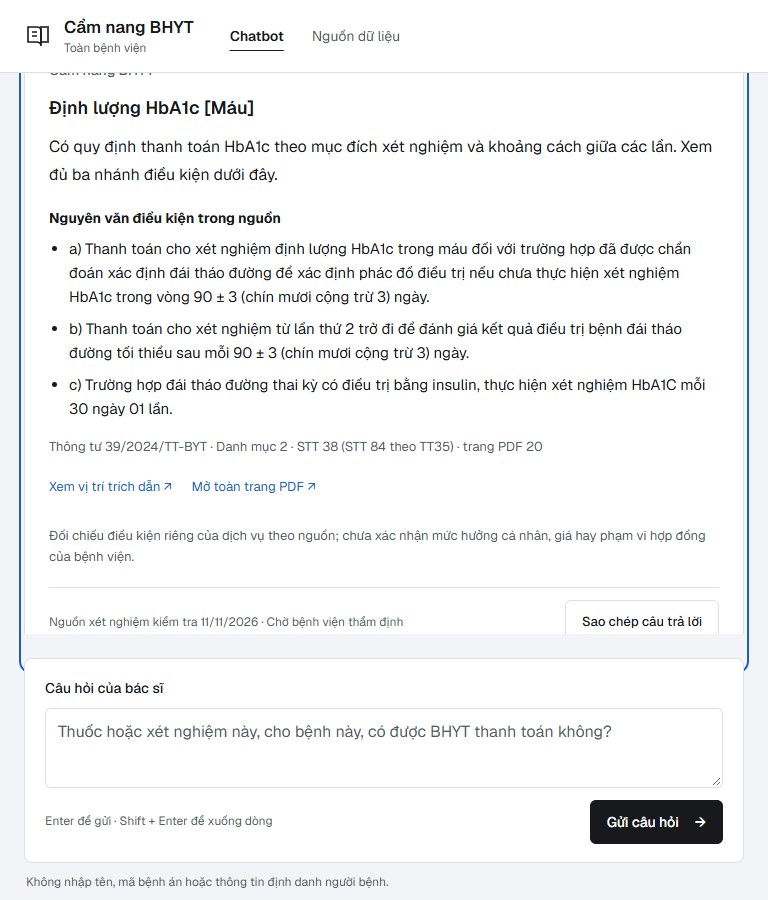
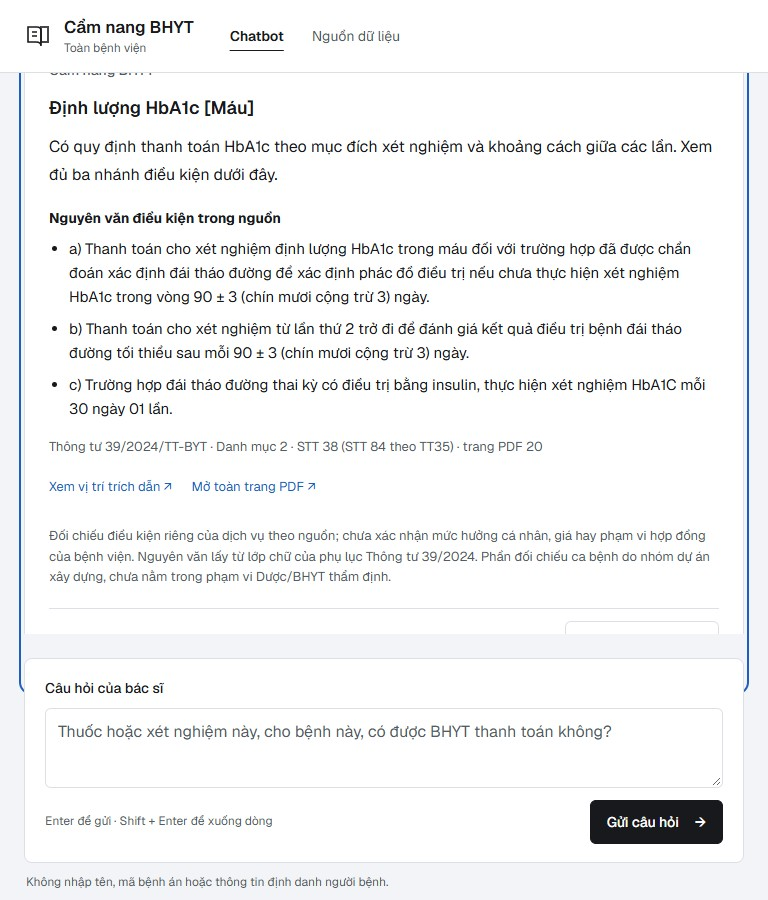
Đồng bộ trạng thái thẩm định trong câu trả lời, sửa lỗi ngắt kết nối khi từ chối yêu cầu

Changed region(s): [[0.0625, 0.5911, 0.9062, 0.6533], [0.0625, 0.6844, 0.5312, 0.7156], [0.75, 0.6844, 0.9062, 0.7156]]

diff --git a/web/app.js b/web/app.js
@@ -19,7 +19,7 @@ function quoteBlock(q,status){
  fig.append(row);if(q.highlights?.length)fig.append(node('p',status==='source_condition_not_met'?'Phần tô đậm là điều kiện nguồn yêu cầu; thông tin trong câu hỏi không khớp điều kiện này.':'Phần tô đậm là đoạn câu trả lời dựa vào.','hint'));
  if(q.page_checked)fig.append(node('p',q.page_note||'Số trang đã đối chiếu với ảnh trang PDF (Đỗ Quốc An đọc), chờ Dược xác nhận.','hint'));return fig;}
 function evidenceGroup(parent,title,items){if(!items.length)return;const d=node('details',undefined,'citation');d.append(node('summary',title+' · '+items.length+' đoạn'));for(const c of items)d.append(sourceBlock(c));parent.append(d);}
-function reportText(data,question){const out=['Câu hỏi: '+question,data.answer];for(const r of data.results||[]){const a=r.question_answer;if(!a)continue;out.push(r.ingredient,a.conclusion,...a.conditions);for(const q of a.quotes||[])out.push('TRÍCH NGUYÊN VĂN '+q.document+' · '+q.locator+(q.page_checked?' · trang PDF '+q.pages.join('–'):'')+': “'+(q.empty?'(ô ghi chú trống)':q.text)+'”');out.push(a.scope);}for(const r of data.lab_results||[])out.push(r.name,r.conclusion,...(r.reading||[]).map(x=>'Dữ kiện đã đọc — '+x),...r.reasons,...(r.notes||[]),'NGUYÊN VĂN: '+r.conditions.join(' '),...((r.rate||[]).length?['Tỷ lệ, mức giá thanh toán: '+r.rate.join(' ')]:[]),r.scope,'Vị trí nguồn: '+new URL(r.citation.viewer_url,location.origin).href);for(const c of [...(data.citations||[]),...(data.clinical_references||[])]){out.push('NGUỒN '+(c.document_title||sourceName(c.document_id))+' · '+c.locator+' · '+(c.official_url||c.source_url||c.local_url),c.excerpt);for(const f of c.source_review_flags||[])out.push('Giới hạn: '+f.note);}if(data.notice)out.push(data.notice);for(const t of data.brand_notes||[])out.push(t);for(const t of data.hospital_notes||[])out.push(t);out.push('Bộ nguồn BHYT '+data.snapshot+'; tham khảo nguồn, chưa được bệnh viện thẩm định.');if(data.source_checked_as_of)out.push('Nguồn xét nghiệm kiểm tra '+data.source_checked_as_of+'; ngày kiểm tra không bảo đảm đã rà soát mọi văn bản mới.');return out.join('\n');}
+function reportText(data,question){const out=['Câu hỏi: '+question,data.answer];for(const r of data.results||[]){const a=r.question_answer;if(!a)continue;out.push(r.ingredient,a.conclusion,...a.conditions);for(const q of a.quotes||[])out.push('TRÍCH NGUYÊN VĂN '+q.document+' · '+q.locator+(q.page_checked?' · trang PDF '+q.pages.join('–'):'')+': “'+(q.empty?'(ô ghi chú trống)':q.text)+'”');out.push(a.scope);}for(const r of data.lab_results||[])out.push(r.name,r.conclusion,...(r.reading||[]).map(x=>'Dữ kiện đã đọc — '+x),...r.reasons,...(r.notes||[]),'NGUYÊN VĂN: '+r.conditions.join(' '),...((r.rate||[]).length?['Tỷ lệ, mức giá thanh toán: '+r.rate.join(' ')]:[]),r.scope,'Vị trí nguồn: '+new URL(r.citation.viewer_url,location.origin).href);for(const c of [...(data.citations||[]),...(data.clinical_references||[])]){out.push('NGUỒN '+(c.document_title||sourceName(c.document_id))+' · '+c.locator+' · '+(c.official_url||c.source_url||c.local_url),c.excerpt);for(const f of c.source_review_flags||[])out.push('Giới hạn: '+f.note);}if(data.notice)out.push(data.notice);for(const t of data.brand_notes||[])out.push(t);for(const t of data.hospital_notes||[])out.push(t);out.push('Bộ nguồn BHYT '+data.snapshot+'; đối chiếu với nguồn, không phải quyết định thanh toán.'+(data.review_note?' '+data.review_note:''));if(data.source_checked_as_of)out.push('Nguồn xét nghiệm kiểm tra '+data.source_checked_as_of+'; ngày kiểm tra không bảo đảm đã rà soát mọi văn bản mới.');return out.join('\n');}
 function labBlock(r,data){
  const section=node('section',undefined,'drug-result lab-result');section.append(node('h3',r.name,'drug-heading'),node('p',r.conclusion,'conclusion'));
  if(r.reasons?.length){const reasons=node('ul',undefined,'lab-reasons');for(const t of r.reasons)reasons.append(node('li',t));section.append(reasons);}
@@ -34,7 +34,7 @@ function labBlock(r,data){
  block.append(list);if(used.size)block.append(node('p',r.status==='source_condition_not_met'?'Phần tô đậm là nhánh nguồn đang đối chiếu; thông tin đã nêu không khớp nhánh này.':'Phần tô đậm là nhánh đang đối chiếu.','hint'));section.append(block);
  if(r.rate?.length&&!paired){const rate=node('div',undefined,'answer-block lab-rate-block');rate.append(node('strong','Tỷ lệ, mức giá thanh toán (nguyên văn)'));const rl=node('ul');for(const t of r.rate)rl.append(node('li',t));rate.append(rl);section.append(rate);}
  const scan=r.transcription==='scan_read';
- const source=node('div',undefined,'lab-source');source.append(node('p',r.citation.document_title+' · '+r.citation.locator+(scan?' · chép từ bản scan':''),'hint'));const links=node('div',undefined,'source-links');const a=link(r.citation.viewer_url,scan?'Xem ảnh trang nguồn ↗':'Xem vị trí trích dẫn ↗');if(a)links.append(a);const pdf=link(r.citation.local_url+'#page='+r.citation.page,'Mở toàn trang PDF ↗');if(pdf)links.append(pdf);source.append(links);section.append(source,node('p',r.scope,'scope-note'));return section;
+ const source=node('div',undefined,'lab-source');source.append(node('p',r.citation.document_title+' · '+r.citation.locator+(scan?' · chép từ bản scan':''),'hint'));const links=node('div',undefined,'source-links');const a=link(r.citation.viewer_url,scan?'Xem ảnh trang nguồn ↗':'Xem vị trí trích dẫn ↗');if(a)links.append(a);const pdf=link(r.citation.local_url+'#page='+r.citation.page,'Mở toàn trang PDF ↗');if(pdf)links.append(pdf);source.append(links);section.append(source,node('p',r.scope+(r.review?' '+r.review.text:''),'scope-note'));return section;
 }
 function renderReply(data,question){
  const box=node('article',undefined,'assistant');box.tabIndex=-1;box.append(node('h2','Cẩm nang BHYT'));
@@ -61,7 +61,7 @@ function renderReply(data,question){
  if(data.hospital_notes?.length)for(const t of data.hospital_notes)box.append(node('p',t,'notice hospital-note'));
  const legal=(data.citations||[]).filter(c=>!rows.some(r=>r.record_ids?.includes(c.id))&&!data.lab_results?.some(r=>r.citation.id===c.id));evidenceGroup(box,'Quy định BHYT liên quan',legal);evidenceGroup(box,'Tài liệu điều trị tham khảo',data.clinical_references||[]);
  if(data.notice)box.append(node('p',data.notice,'notice'));
- const foot=node('div',undefined,'answer-foot');const copy=node('button','Sao chép câu trả lời');copy.type='button';const text=reportText(data,question);copy.addEventListener('click',async()=>{try{await navigator.clipboard.writeText(text);copy.textContent='Đã sao chép kèm nguồn';}catch{copy.textContent='Chưa sao chép được';}});foot.append(node('span',data.source_checked_as_of?'Nguồn xét nghiệm kiểm tra '+data.source_checked_as_of.split('-').reverse().join('/')+' · Chờ bệnh viện thẩm định':'Theo bộ nguồn BHYT 06/11/2026'),copy);box.append(foot);return box;
+ const foot=node('div',undefined,'answer-foot');const copy=node('button','Sao chép câu trả lời');copy.type='button';const text=reportText(data,question);copy.addEventListener('click',async()=>{try{await navigator.clipboard.writeText(text);copy.textContent='Đã sao chép kèm nguồn';}catch{copy.textContent='Chưa sao chép được';}});const labDay=(data.domain==='lab'||data.domain==='mixed')&&data.source_checked_as_of?data.source_checked_as_of.split('-').reverse().join('/'):null;foot.append(node('span',(data.domain==='mixed'?'Nguồn thuốc 06/11/2026 · Nguồn xét nghiệm kiểm tra '+labDay:labDay?'Nguồn xét nghiệm kiểm tra '+labDay:'Theo bộ nguồn BHYT 06/11/2026')+(data.review_label?' · '+data.review_label:'')),copy);box.append(foot);return box;
 }
 async function send(text,ctx,confirm){
  // ctx: a follow-up chip sends the context of the answer it belongs to, not the latest one.

diff --git a/tests/test_review_status.py b/tests/test_review_status.py
@@ -1,0 +1,107 @@
+"""One review status per reply.
+
+The notes said "đã thẩm định" while the footer said "Chờ bệnh viện thẩm định" and the copied
+text said "chưa được bệnh viện thẩm định". Each part of a reply now states the review status
+of exactly what it shows, and the footer and the copied text are built from those statements.
+"""
+import json
+import sys
+import threading
+import unittest
+from pathlib import Path
+from urllib.request import urlopen
+
+ROOT = Path(__file__).resolve().parents[1]
+sys.path.insert(0, str(ROOT))
+from engine import Corpus
+from server import make_server
+
+ATTESTED = 'Dược/BHYT đã thẩm định điều kiện (theo xác nhận của nhóm dự án)'
+UNREVIEWED = 'Phần đối chiếu chưa được Dược/BHYT thẩm định'
+SOURCE_TEXT = 'Trích nguyên văn nguồn'
+PARTLY = 'Thẩm định một phần, xem ghi chú từng mục'
+OLD_BLANKETS = ('Chờ bệnh viện thẩm định', 'chưa được bệnh viện thẩm định', 'chờ bệnh viện thẩm định')
+
+
+class ReviewStatus(unittest.TestCase):
+    @classmethod
+    def setUpClass(cls):
+        cls.c = Corpus()
+
+    def test_label_follows_what_the_reply_shows(self):
+        for q, label in [('Trastuzumab ung thư vú HER2 dương tính', ATTESTED), ('Bevacizumab', ATTESTED), ('Paracetamol', SOURCE_TEXT),
+                         ('Định lượng BNP', ATTESTED), ('Định lượng CRP', SOURCE_TEXT), ('HbA1c có điều kiện BHYT gì?', UNREVIEWED),
+                         ('Xét nghiệm EGFR hôm nay cho bệnh nhân ung thư phổi không tế bào nhỏ đang điều trị', UNREVIEWED),
+                         ('Cả xét nghiệm HER2 và Trastuzumab trong ung thư vú có BHYT không?', PARTLY), ('Trastuzumab và Paracetamol', ATTESTED)]:
+            self.assertEqual(self.c.converse(q).get('review_label'), label, q)
+
+    def test_note_is_the_same_text_as_each_part(self):
+        r = self.c.converse('Cả xét nghiệm HER2 và Trastuzumab trong ung thư vú có BHYT không?')
+        drug = r['results'][0]['question_answer']
+        lab = r['lab_results'][0]
+        self.assertIn(drug['review']['text'], drug['scope'])
+        self.assertIn(drug['review']['text'], r['review_note'])
+        self.assertIn(lab['review']['text'], r['review_note'])
+        self.assertIn('theo xác nhận của nhóm dự án', drug['review']['text'])       # how the review is known stays visible
+        self.assertIn('chưa nằm trong phạm vi', lab['review']['text'])
+
+    def test_no_reply_carries_an_old_blanket_sentence(self):
+        for q in ('Trastuzumab ung thư vú HER2 dương tính', 'Paracetamol', 'Định lượng BNP', 'HbA1c có điều kiện BHYT gì?', 'Xét nghiệm troponin',
+                  'Cả xét nghiệm HER2 và Trastuzumab trong ung thư vú có BHYT không?', 'HbA1c hôm nay theo dõi đái tháo đường, lần trước cách 120 ngày'):
+            text = json.dumps(self.c.converse(q), ensure_ascii=False)
+            for old in OLD_BLANKETS:
+                self.assertNotIn(old, text, q)
+
+    def test_no_label_when_nothing_was_looked_up(self):
+        for q in ('Xét nghiệm troponin có được BHYT không?', 'Gaviscon'):
+            self.assertNotIn('review_label', self.c.converse(q), q)
+
+    def test_page_and_bundled_sources_do_not_hard_code_a_status(self):
+        script = (ROOT / 'web/app.js').read_text(encoding='utf-8')
+        bundle = (ROOT / 'data/lab_services.json').read_text(encoding='utf-8')
+        for old in OLD_BLANKETS:
+            self.assertNotIn(old, script)
+            self.assertNotIn(old, bundle)
+        self.assertIn('data.review_label', script)
+        self.assertIn('data.review_note', script)
+
+    def test_source_catalogue_states_scope_and_missing_record(self):
+        server = make_server(0)
+        thread = threading.Thread(target=server.serve_forever, daemon=True)
+        thread.start()
+        try:
+            with urlopen(f'http://127.0.0.1:{server.server_port}/api/metadata') as response:
+                meta = json.load(response)
+        finally:
+            server.shutdown(); server.server_close(); thread.join()
+        self.assertIn('đã thẩm định ngày 11/11/2026', meta['review_status'])
+        self.assertIn('28 nhánh điều kiện', meta['review_status'])
+        self.assertIn('Chưa lưu biên bản', meta['review_status'])
+        self.assertIn('chưa nằm trong phạm vi', meta['lab_source']['review_status'])
+
+
+class RefusalsAreAnswered(unittest.TestCase):
+    """A refused POST got a reset connection now and then instead of its status code: the server
+    answered before reading the body. Every refusal must arrive as a clean HTTP error."""
+
+    def test_refused_posts_always_get_their_status(self):
+        from urllib.error import HTTPError
+        from urllib.request import Request
+        server = make_server(0)
+        thread = threading.Thread(target=server.serve_forever, daemon=True)
+        thread.start()
+        base = f'http://127.0.0.1:{server.server_port}'
+        body = json.dumps({'message': 'Trastuzumab ung thư vú ' * 40}).encode()
+        try:
+            for path, headers, expected in (('/api/chat', {'Content-Type': 'application/json'}, 403),
+                                            ('/api/chat', {'Content-Type': 'application/json', 'X-Session-Token': 'sai'}, 403)):
+                for _ in range(60):
+                    with self.assertRaises(HTTPError) as error:
+                        urlopen(Request(base + path, data=body, headers=headers))
+                    self.assertEqual(error.exception.code, expected)
+        finally:
+            server.shutdown(); server.server_close(); thread.join()
+
+
+if __name__ == '__main__':
+    unittest.main()

diff --git a/server.py b/server.py
@@ -80,13 +80,17 @@ def make_server(port=8765,corpus=None):
                 self.send(200,file.read_bytes(),ctype+'; charset=utf-8');return
             self.send(404,{'error':'Không tìm thấy.'})
         def do_POST(self):
+            # Read the body before any refusal: answering while the client is still sending makes
+            # Windows reset the connection, and the client then sees an abort instead of the 403.
+            try:length=int(self.headers.get('Content-Length','0'))
+            except ValueError:length=0
+            raw=self.rfile.read(min(length,20001)) if length>0 else b''
             if not self.trusted_host() or self.headers.get('X-Session-Token')!=token:self.send(403,{'error':'Phiên không hợp lệ. Tải lại trang.'});return
             if urlparse(self.path).path not in ('/api/chat','/api/case/evaluate'):self.send(404,{'error':'Không tìm thấy.'});return
             if not self.headers.get('Content-Type','').startswith('application/json'):self.send(415,{'error':'Yêu cầu JSON.'});return
             try:
-                length=int(self.headers.get('Content-Length','0'))
                 if length<1 or length>20000:self.send(413,{'error':'Nội dung quá dài.'});return
-                payload=json.loads(self.rfile.read(length))
+                payload=json.loads(raw)
                 if urlparse(self.path).path=='/api/case/evaluate':
                     if not isinstance(payload,dict) or payload.get("department","Tất cả các khoa") not in DEPARTMENTS:raise ValueError("Khoa hoặc dữ liệu ca không hợp lệ.")
                     result=workbench.evaluate(payload);result["department"]=payload.get("department","Tất cả các khoa")
@@ -100,7 +104,10 @@ def make_server(port=8765,corpus=None):
             except (ValueError,TypeError,KeyError) as e:self.send(400,{'error':str(e)[:180]})
             except RecursionError:self.send(400,{'error':'Dữ liệu gửi lên lồng quá sâu.'})
             except Exception:self.send(500,{'error':'Không xử lý được yêu cầu. Thử lại hoặc kiểm tra dữ liệu nguồn.'})
-    return ThreadingHTTPServer(('127.0.0.1',port),Handler)
+    class Server(ThreadingHTTPServer):
+        request_queue_size=64      # the default of 5 can refuse connections when a page loads many files at once
+        daemon_threads=True
+    return Server(('127.0.0.1',port),Handler)
 
 def normalize_query(q):
     from engine import normalize

diff --git a/indication_chat.py b/indication_chat.py
@@ -35,7 +35,7 @@ TOPICS = {
 DISEASE_SIGNAL = r"\b(?:ung thu|benh(?! (?:nhan|da|dang|van|con|khong|chua|tien trien|tai phat|on dinh|di can|giai doan))|dai thao duong|tang huyet ap|viem|nhiem khuan|suy tim|hen|copd|trung bieu mo|sarcom)\b"
 CONTEXT_DISEASE = r"\b(?:ung thu|benh(?! nhan)|dai thao duong|tang huyet ap|dau|sot|viem|nhiem khuan|suy tim|hen|copd|trung bieu mo|lympho|bach cau|sarcom)\b"
 TOPIC_NEGATION = r"(?:khong phai|khong phai la|khong bi|khong co|khong mac|chua co|chua mac|loai tru)\s*$"
-SCOPE_NOTE = ("Thông tin chung theo bộ nguồn BHYT chốt 06/11/2026; chưa được bệnh viện thẩm định. "
+SCOPE_NOTE = ("Thông tin chung theo bộ nguồn BHYT chốt 06/11/2026; là đối chiếu với nguồn, không phải quyết định thanh toán. "
               "Tỷ lệ của thuốc không đồng nghĩa mức hưởng cá nhân hoặc số tiền quỹ chi trả.")
 
 
@@ -177,12 +177,16 @@ class IndicationChat:
             return answer
         answer["_highlights"]=[]
         rule=self.rules.get(ids[0]) if len(ids)==1 else None
+        # The review status of exactly what this answer shows; the footer and the copied text use it too.
         if rule:
             answer["rule_review"]=rule.get("reviewed_by") or rule.get("review_status") or self.rules_meta["review_status"]
-            if not rule.get("reviewed_by"):
-                answer["scope"]+=" Nhánh điều kiện của thuốc này là bản nháp tách từ nguyên văn, chưa được Dược/BHYT duyệt."
+            if rule.get("reviewed_by"):
+                answer["review"]={"kind":"attested","text":"Bảng điều kiện của thuốc này: "+rule["reviewed_by"]}
             else:
-                answer["scope"]+=" Riêng nhánh điều kiện của thuốc này: "+rule["reviewed_by"]
+                answer["review"]={"kind":"unreviewed","text":"Bảng điều kiện của thuốc này là bản nháp tách từ nguyên văn, chưa được Dược/BHYT duyệt."}
+        else:
+            answer["review"]={"kind":"source_text","text":"Nội dung là nguyên văn danh mục; thuốc này chưa có bảng điều kiện riêng."}
+        answer["scope"]+=" "+answer["review"]["text"]
         if rule and rule["kind"]=="indication_branches":
             self.branch_answer(answer,rule,name,ids[0],topics,turns,has_disease,facts.get(ids[0],{}),confirmable,new_turn)
         elif rule and rule["kind"]=="formulation_note":

diff --git a/lab_lookup.py b/lab_lookup.py
@@ -506,10 +506,16 @@ class LabLookup:
                 notes.append(row['source_note'])
             if a.get('unconfirmed_note'):
                 notes.insert(0, a.pop('unconfirmed_note'))
+            if row.get('transcription') == 'scan_read':
+                review = {'kind': 'attested' if self.attestation else 'unreviewed', 'text': 'Nguyên văn chép từ bản scan. ' + self.scan_status}
+            elif row.get('rule'):
+                review = {'kind': 'unreviewed', 'text': 'Nguyên văn lấy từ lớp chữ của phụ lục Thông tư 39/2024. Phần đối chiếu ca bệnh do nhóm dự án xây dựng, chưa nằm trong phạm vi Dược/BHYT thẩm định.'}
+            else:
+                review = {'kind': 'source_text', 'text': 'Nguyên văn lấy từ lớp chữ của phụ lục Thông tư 39/2024.'}
             base['lab_results'].append({'id': sid, 'name': row['name'], **a, 'conditions': row['conditions'],
                                         'rate': row.get('rate') or [], 'rate_mode': row.get('rate_mode'), 'notes': notes,
                                         'transcription': row.get('transcription', 'text_layer'), 'automatic': bool(row.get('rule')),
-                                        'citation': self.citation(row), 'facts': facts,
+                                        'citation': self.citation(row), 'facts': facts, 'review': review,
                                         'scope': 'Đối chiếu điều kiện riêng của dịch vụ theo nguồn; chưa xác nhận mức hưởng cá nhân, giá hay phạm vi hợp đồng của bệnh viện.'})
             base['citations'].append(self.citation(row))
             if single:

diff --git a/engine.py b/engine.py
@@ -635,8 +635,25 @@ class Corpus:
             else:
                 # A switch to medication must not carry laboratory dates or purpose.
                 result=self._converse(message,{k:v for k,v in trusted.items() if k!='lab'},as_of,confirm)
+        self.review_summary(result)
         result["state"]=self.sign_state(result.get("state") or {})
         return result
+
+    @staticmethod
+    def review_summary(result):
+        """One review status for the whole reply, built from what each part of it says about
+        itself, so the footer and the copied text can never contradict the notes."""
+        items=[((r.get("question_answer") or {}).get("review"),r.get("ingredient")) for r in result.get("results") or []]
+        items+=[(r.get("review"),r.get("name")) for r in result.get("lab_results") or []]
+        items=[(review,name) for review,name in items if review]
+        if not items:return
+        kinds={review["kind"] for review,_ in items}
+        if "unreviewed" in kinds and "attested" in kinds:label="Thẩm định một phần, xem ghi chú từng mục"
+        elif "unreviewed" in kinds:label="Phần đối chiếu chưa được Dược/BHYT thẩm định"
+        elif "attested" in kinds:label="Dược/BHYT đã thẩm định điều kiện (theo xác nhận của nhóm dự án)"
+        else:label="Trích nguyên văn nguồn"
+        result["review_label"]=label
+        result["review_note"]=" ".join(dict.fromkeys((name+": " if len(items)>1 else "")+review["text"] for review,name in items))
 
     def _converse(self,message,state=None,as_of=None,confirm=None):
         from indication_chat import IndicationChat, topics_in

diff --git a/catalog.py b/catalog.py
@@ -36,7 +36,9 @@ def metadata(corpus):
         variants=len(corpus.rows),chunks=len(corpus.chunks),sources=sources,
         source_update=corpus.supplemental.metadata(),
         lab_source=corpus.labs.metadata(),
-        review_status='Chưa được bệnh viện thẩm định',
+        review_status=('Theo xác nhận của nhóm dự án, Dược/BHYT của bệnh viện đã thẩm định ngày '+'/'.join(reversed(corpus.attestation['date'].split('-')))
+                       +': '+'; '.join(corpus.attestation['scope'])+'. '+corpus.attestation['record']
+                       +' Các phần khác là trích nguyên văn nguồn hoặc do nhóm dự án xây dựng, chưa thẩm định') if getattr(corpus,'attestation',None) else 'Chưa được bệnh viện thẩm định',
         scope='Toàn bộ các khoa; thuốc hóa dược, sinh phẩm, thuốc phóng xạ, chất đánh dấu và các xét nghiệm có điều kiện thanh toán riêng (TT39/2024, 17/VBHN-BYT) trong bộ nguồn.',
         missing=['Danh mục thuốc, biệt dược và phạm vi hợp đồng BHYT tại bệnh viện.',
                  'Danh mục thuốc y học cổ truyền, dược liệu và vị thuốc chưa có trong gói dữ liệu này.',

diff --git a/tools/build_lab_sources.py b/tools/build_lab_sources.py
@@ -249,7 +249,7 @@ def main():
         'official_url': 'https://vanban.chinhphu.vn/?docid=211771&pageid=27160',
         'source_url': 'https://datafiles.chinhphu.vn/cpp/files/vbpq/2024/11/39-byt-kem.pdf',
         'local_url': '/sources/labs/39-2024-appendix.pdf', 'sha256': digest(appendix),
-        'review_status': 'Đã đối chiếu ảnh PDF và văn bản hợp nhất; chờ bệnh viện thẩm định.',
+        'review_status': 'Nguyên văn lấy từ lớp chữ của phụ lục và đã đối chiếu với bản hợp nhất. Phần đối chiếu ca bệnh (HbA1c, xét nghiệm gen, SCC) do nhóm dự án xây dựng, chưa nằm trong phạm vi Dược/BHYT thẩm định.',
         'review_limitations': limitations,
         'related_documents': [
             {'title': 'Thông tư 35/2016/TT-BYT, sửa đổi bởi TT50/2017, TT13/2020 và TT39/2024',

diff --git a/docs/LAB_LOOKUP_V1.11.md b/docs/LAB_LOOKUP_V1.11.md
@@ -211,3 +211,25 @@ Giới hạn vẫn còn: một câu chỉ gồm từ đã biết, ghép theo cá
 
 Kiểm thử: `tests/test_lab_review9.py` (8 kiểm thử), có ca tái hiện đúng tình huống yêu cầu B chạy chen giữa yêu cầu A; tổng 422 kiểm thử backend.
 
+
+## Đồng bộ trạng thái thẩm định (11/11/2026)
+
+Người rà soát chỉ ra: ghi chú nói "đã thẩm định" nhưng chân câu trả lời ghi "Chờ bệnh viện thẩm định" và phần sao chép ghi "chưa được bệnh viện thẩm định". Nhận xét đúng.
+
+**Cách làm mới**
+- Mỗi phần của câu trả lời tự nêu trạng thái thẩm định của đúng nội dung nó hiển thị (`review` của từng thuốc, từng xét nghiệm).
+- Chân câu trả lời (`review_label`) và phần sao chép (`review_note`) được ghép từ các trạng thái đó, không còn câu viết sẵn.
+- Bốn nhãn:
+
+| Nhãn ở chân câu trả lời | Khi nào |
+|---|---|
+| Dược/BHYT đã thẩm định điều kiện (theo xác nhận của nhóm dự án) | Thuốc có bảng điều kiện đã thẩm định; xét nghiệm chép từ bản scan |
+| Phần đối chiếu chưa được Dược/BHYT thẩm định | HbA1c, xét nghiệm gen, SCC: nguyên văn lấy từ lớp chữ, phần đối chiếu ca bệnh do nhóm xây dựng |
+| Trích nguyên văn nguồn | Thuốc không có bảng điều kiện riêng; xét nghiệm TT39 không có đối chiếu ca bệnh |
+| Thẩm định một phần, xem ghi chú từng mục | Câu trả lời gồm cả hai loại |
+
+**Sửa kèm theo**
+- Câu trả lời về thuốc trước đây ghi nhầm "Nguồn xét nghiệm kiểm tra…" ở chân; nay ghi "Theo bộ nguồn BHYT 06/11/2026".
+- Server đọc hết nội dung yêu cầu trước khi từ chối (403/404/413/415). Trước đây thỉnh thoảng máy khách bị ngắt kết nối thay vì nhận mã lỗi; đây là nguyên nhân 1–2 kiểm thử HTTP lúc đạt lúc lỗi.
+
+Kiểm thử: `tests/test_review_status.py` (7 kiểm thử); tổng 429 kiểm thử backend, chạy 6 lượt liên tiếp đều đạt; 132 và 67 kiểm tra giao diện.
